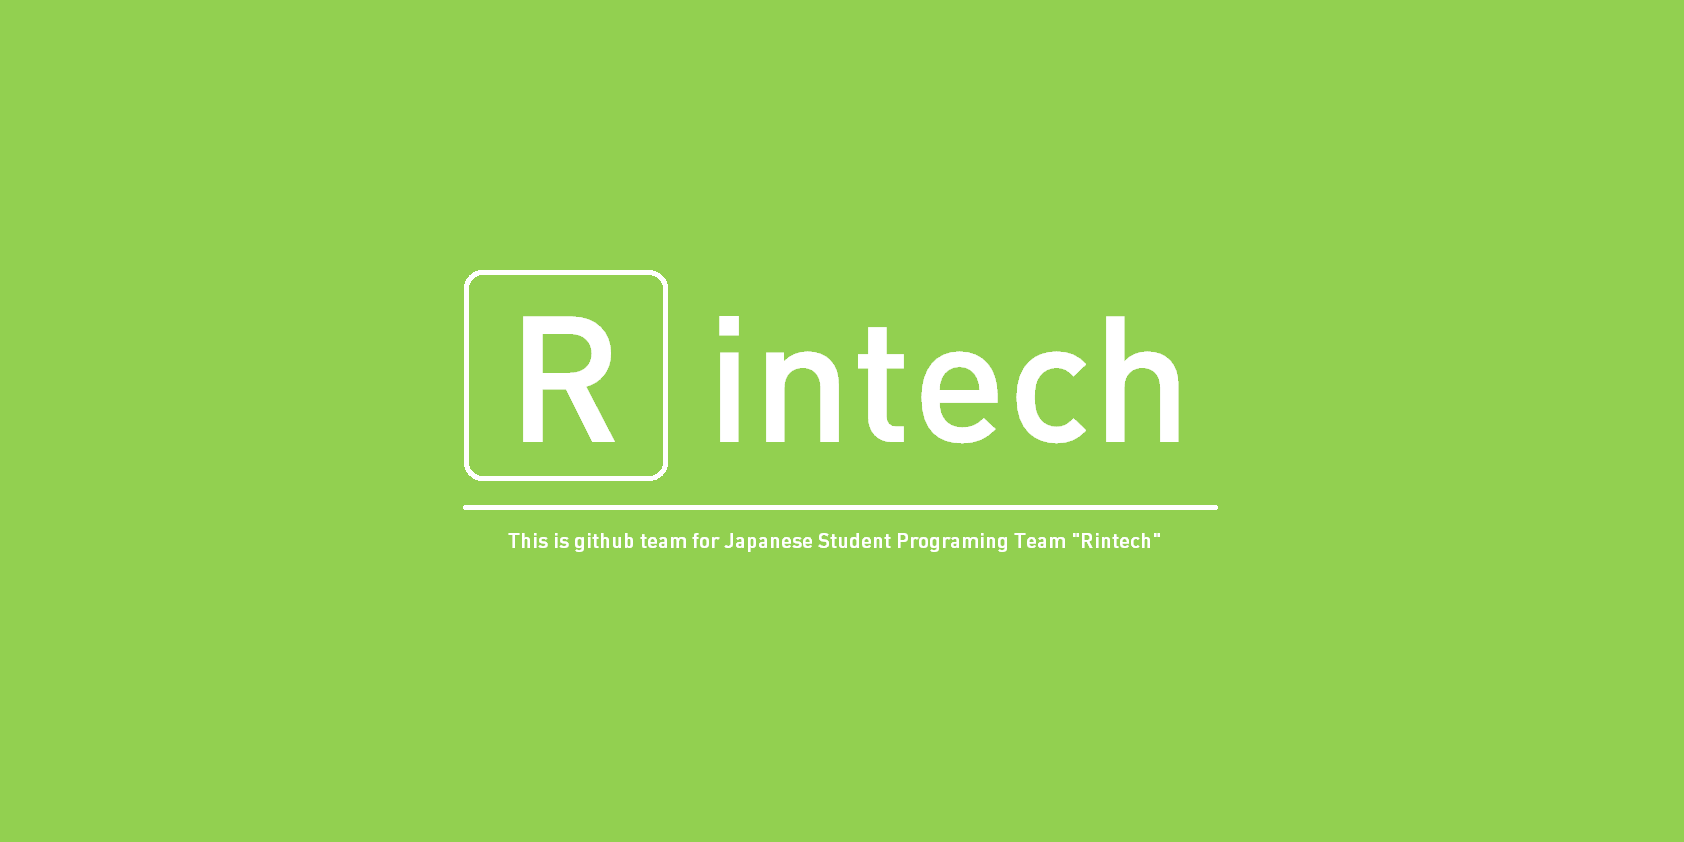
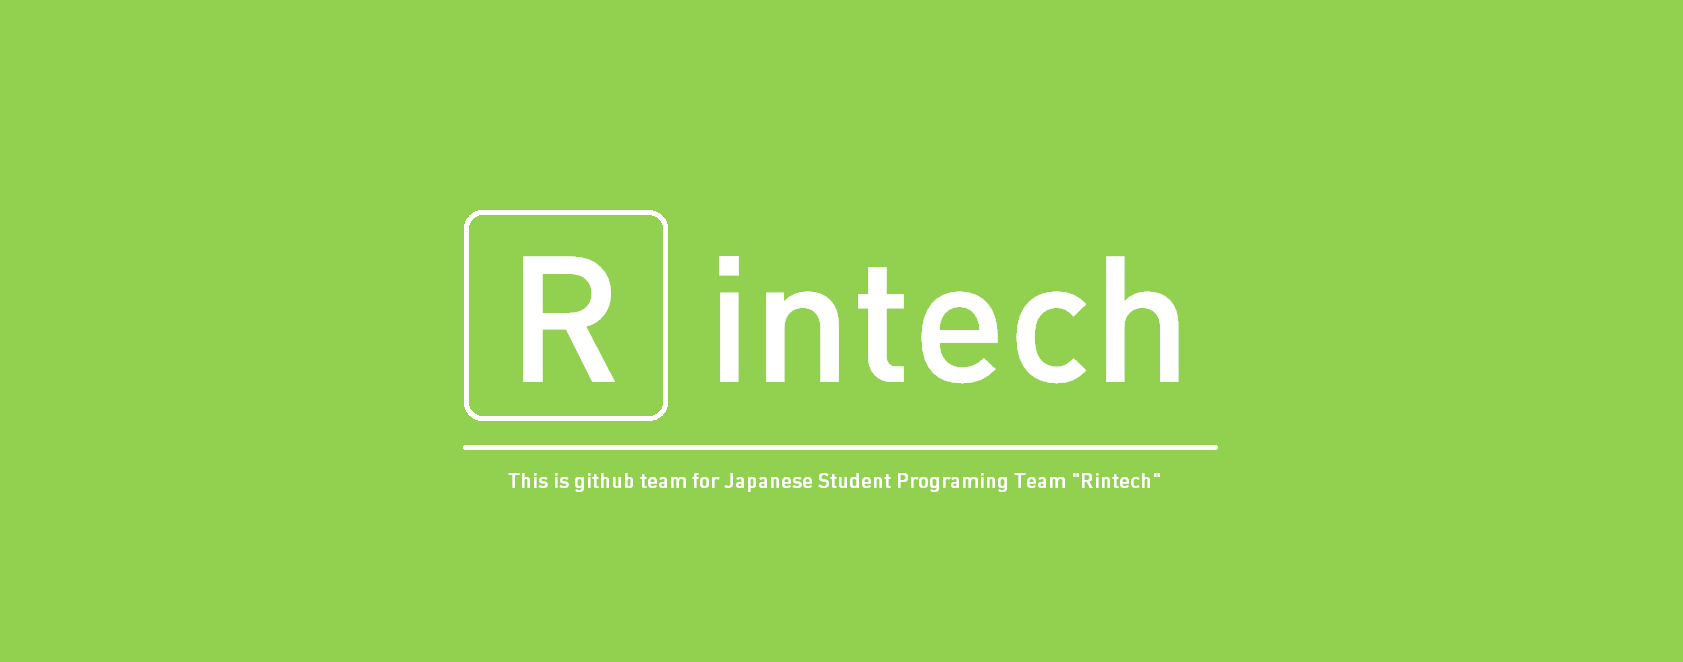
うんち

Changed region(s): [[0.2781, 0.3625, 0.7415, 0.7553], [0.2781, 0.3021, 0.4017, 0.3323], [0.6488, 0.3625, 0.6797, 0.3927]]

diff --git a/dev/css/style.css b/dev/css/style.css
@@ -11,15 +11,12 @@ body {
 }
 
 header {
-    background-color: #74DF00; 
+    font-family: "Mplus 1p",sans-serif;
+    background-color: #92d050; 
     text-align: right;
     padding: 10px;
-    background-image: url(../img/りんてっく.png);
-    background-position: center;
-    background-repeat: no-repeat;
-    background-size: cover;
     margin-bottom: 60px;
-    height: 240px;
+    height: 540px;
 
 }
 
@@ -43,4 +40,13 @@ header li > a  {
 
 header li > a:hover {
     color: blue;
+}
+
+header h1 {
+    font-family: inherit;
+    color: white;
+    font-size: 75px;
+    text-align: center;
+    line-height: 400px;
+    letter-spacing: 10px;
 }

diff --git a/dev/index.html b/dev/index.html
@@ -5,6 +5,7 @@
     <meta http-equiv="X-UA-Compatible" content="IE=edge">
     <meta http-equiv="content-language" content="ja">
     <link rel="stylesheet" type="text/css" href="css/style.css">
+    <link href="https://fonts.googleapis.com/earlyaccess/mplus1p.css" rel="stylesheet">
     <title>Rintech</title>
     <meta name="description"content="Rintechのウェブサイト">
     <meta name="viewport" content="width=device-width, initial-scale=1">
@@ -29,6 +30,7 @@
                     </li>
                 </ui>
             </nav>
+                <h1><u>Rintech</u></h1>
         </header>
     </body>
 </html>
